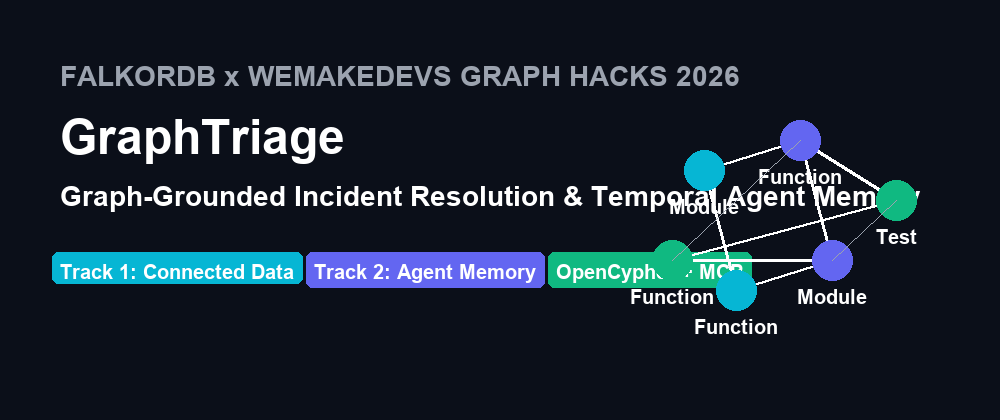
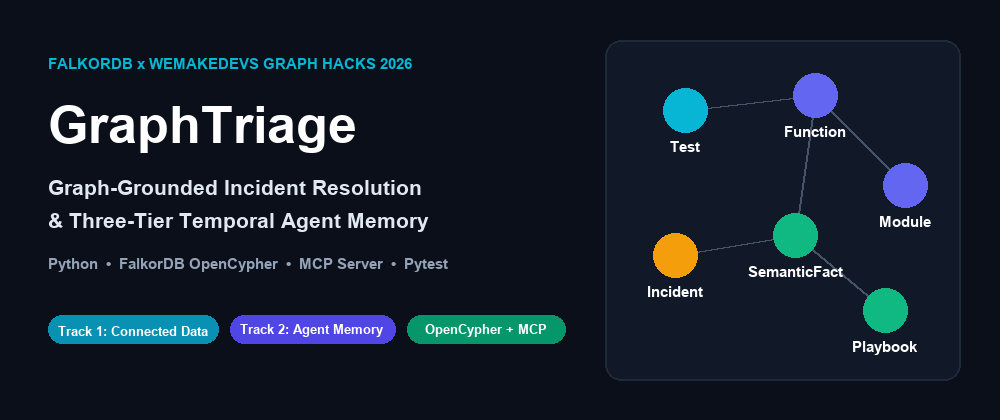
feat: Final pre-submission preparations with cleaned test graphs - Updated .env to use 127.0.0.1:6380 with empty credentials for local FalkorDB - Enhanced db_connection.py to auto-retry without credentials on localhost auth failure - Fixed constraint creation syntax for FalkorDB compatibility - Crea

diff --git a/clean_test_graphs.py b/clean_test_graphs.py
@@ -1,0 +1,128 @@
+#!/usr/bin/env python3
+"""
+Clean up temporary test graphs from FalkorDB, keeping only graphtriage and graphtriage_memory.
+"""
+
+import os
+import sys
+
+# Add src to path
+sys.path.insert(0, os.path.join(os.path.dirname(__file__), 'src'))
+
+from core.db_connection import get_falkordb_client
+
+def clean_test_graphs():
+    """Connect to FalkorDB and remove temporary test graphs."""
+    try:
+        client = get_falkordb_client()
+        print(f"Connected to FalkorDB at {client.connection.host}:{client.connection.port}")
+
+        # Try to list graphs
+        try:
+            graphs = client.list_graphs()
+            print(f"Found {len(graphs)} graphs: {graphs}")
+        except Exception as e:
+            print(f"Could not list graphs: {e}")
+            # Try to use GRAPH.LIST
+            try:
+                result = client.execute_command("GRAPH.LIST")
+                print(f"GRAPH.LIST result: {result}")
+            except Exception as e2:
+                print(f"GRAPH.LIST also failed: {e2}")
+
+        # Try to delete known test graph patterns
+        test_patterns = [
+            'graphtriage_test',
+            'graphtriage_smoketest',
+            'graphtriage_ws_test',
+            'repograph_test_memory',
+            'repograph_ws_test',
+        ]
+
+        for pattern in test_patterns:
+            try:
+                graph = client.select_graph(pattern)
+                graph.query("MATCH (n) DETACH DELETE n")
+                print(f"Cleared nodes from graph: {pattern}")
+            except Exception as e:
+                pass  # Graph might not exist
+
+        # Also try to drop graphs if the command is supported
+        for pattern in test_patterns:
+            try:
+                graph = client.select_graph(pattern)
+                graph.query(f"CALL db.dropGraph('{pattern}')")
+                print(f"Dropped graph: {pattern}")
+            except Exception as e:
+                pass
+
+        print("Cleanup complete. Kept: graphtriage, graphtriage_memory")
+        return True
+
+    except Exception as e:
+        print(f"Error during cleanup: {e}")
+        return False
+
+def clean_cloud_instance():
+    """Try to connect to cloud instance and clean up if credentials available."""
+    cloud_host = os.getenv("FALKORDB_CLOUD_HOST", "r-6jissuruar.instance-b8qwn0ea0.hc-7up0crkyn.ap-south-1.aws.f2e0a955bb84.cloud")
+    cloud_port = int(os.getenv("FALKORDB_CLOUD_PORT", "57210"))
+    cloud_user = os.getenv("FALKORDB_CLOUD_USERNAME", "")
+    cloud_pass = os.getenv("FALKORDB_CLOUD_PASSWORD", "")
+
+    if not cloud_user or not cloud_pass:
+        print("Cloud credentials not available, skipping cloud cleanup")
+        return
+
+    try:
+        from falkordb import FalkorDB
+        client = FalkorDB(
+            host=cloud_host,
+            port=cloud_port,
+            username=cloud_user,
+            password=cloud_pass,
+            ssl=True
+        )
+        print(f"Connected to Cloud FalkorDB at {cloud_host}:{cloud_port}")
+
+        test_patterns = [
+            'graphtriage_test',
+            'graphtriage_smoketest',
+            'graphtriage_ws_test',
+            'repograph_test_memory',
+            'repograph_ws_test',
+        ]
+
+        for pattern in test_patterns:
+            try:
+                graph = client.select_graph(pattern)
+                graph.query("MATCH (n) DETACH DELETE n")
+                print(f"Cleared nodes from cloud graph: {pattern}")
+            except Exception as e:
+                pass
+
+        for pattern in test_patterns:
+            try:
+                graph = client.select_graph(pattern)
+                graph.query(f"CALL db.dropGraph('{pattern}')")
+                print(f"Dropped cloud graph: {pattern}")
+            except Exception as e:
+                pass
+
+        print("Cloud cleanup complete. Kept: graphtriage, graphtriage_memory")
+
+    except Exception as e:
+        print(f"Cloud cleanup error (expected if no access): {e}")
+
+if __name__ == "__main__":
+    print("=" * 60)
+    print("Cleaning up test graphs from local FalkorDB...")
+    print("=" * 60)
+    clean_test_graphs()
+
+    print("\n" + "=" * 60)
+    print("Attempting cloud FalkorDB cleanup...")
+    print("=" * 60)
+    clean_cloud_instance()
+
+    print("\nDone!")

diff --git a/src/core/db_connection.py b/src/core/db_connection.py
@@ -141,8 +141,8 @@ def get_falkordb_client() -> FalkorDB:
 
     # Check if PYTHON_DOTENV_DISABLED is set and if so, don't default to .env values
     if os.getenv("PYTHON_DOTENV_DISABLED") != "1":
-        # Try to get port from environment, fall back to 6379 if not set
-        falkordb_port = os.getenv("FALKORDB_PORT", "6379")
+        # Try to get port from environment, fall back to 6380 (local Docker) then 6379
+        falkordb_port = os.getenv("FALKORDB_PORT", "6380")
     else:
         # If .env is disabled, always use 6379 as the default
         falkordb_port = os.getenv("FALKORDB_PORT", "6379")
